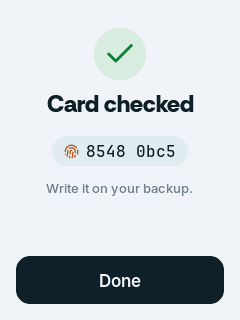
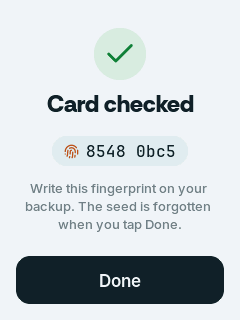
Seed ready: say to write the fingerprint, and that Done forgets the seed
"Write it on your backup" read as "write the seed down" right after
the words were gone. Name the fingerprint and the consequence of Done.
For a child, the number and fingerprint go with the main seed's backup,
since the child can be derived again from it.

Closes #133

Changed region(s): [[0.0875, 0.5625, 0.875, 0.7188]]

diff --git a/firmware/src/app/ui.cpp b/firmware/src/app/ui.cpp
@@ -2614,9 +2614,9 @@ static void build_seed_ready() {
     lv_obj_align(text(scr, title, &rethink_24, TEXT), LV_ALIGN_TOP_MID, 0, 92);
     lv_obj_t *fp;
     lv_obj_align(fingerprint_pill(scr, "\xE2\x80\xA6", &fp), LV_ALIGN_TOP_MID, 0, 136);
-    char note[64];
-    if (child_seed) snprintf(note, sizeof(note), "Write it and #%s on your backup. Load the child like any seed.", child_num);
-    else snprintf(note, sizeof(note), "Write it on your backup.");
+    char note[96];
+    if (child_seed) snprintf(note, sizeof(note), "Note #%s and this fingerprint with your main seed's backup.", child_num);
+    else snprintf(note, sizeof(note), "Write this fingerprint on your backup. The seed is forgotten when you tap Done.");
     lv_obj_align(para(scr, note, &inter_13, TEXT_3), LV_ALIGN_TOP_MID, 0, 180);
     place_bottom(btn_primary(scr, "Done", to_home_cb));
     show(scr);
